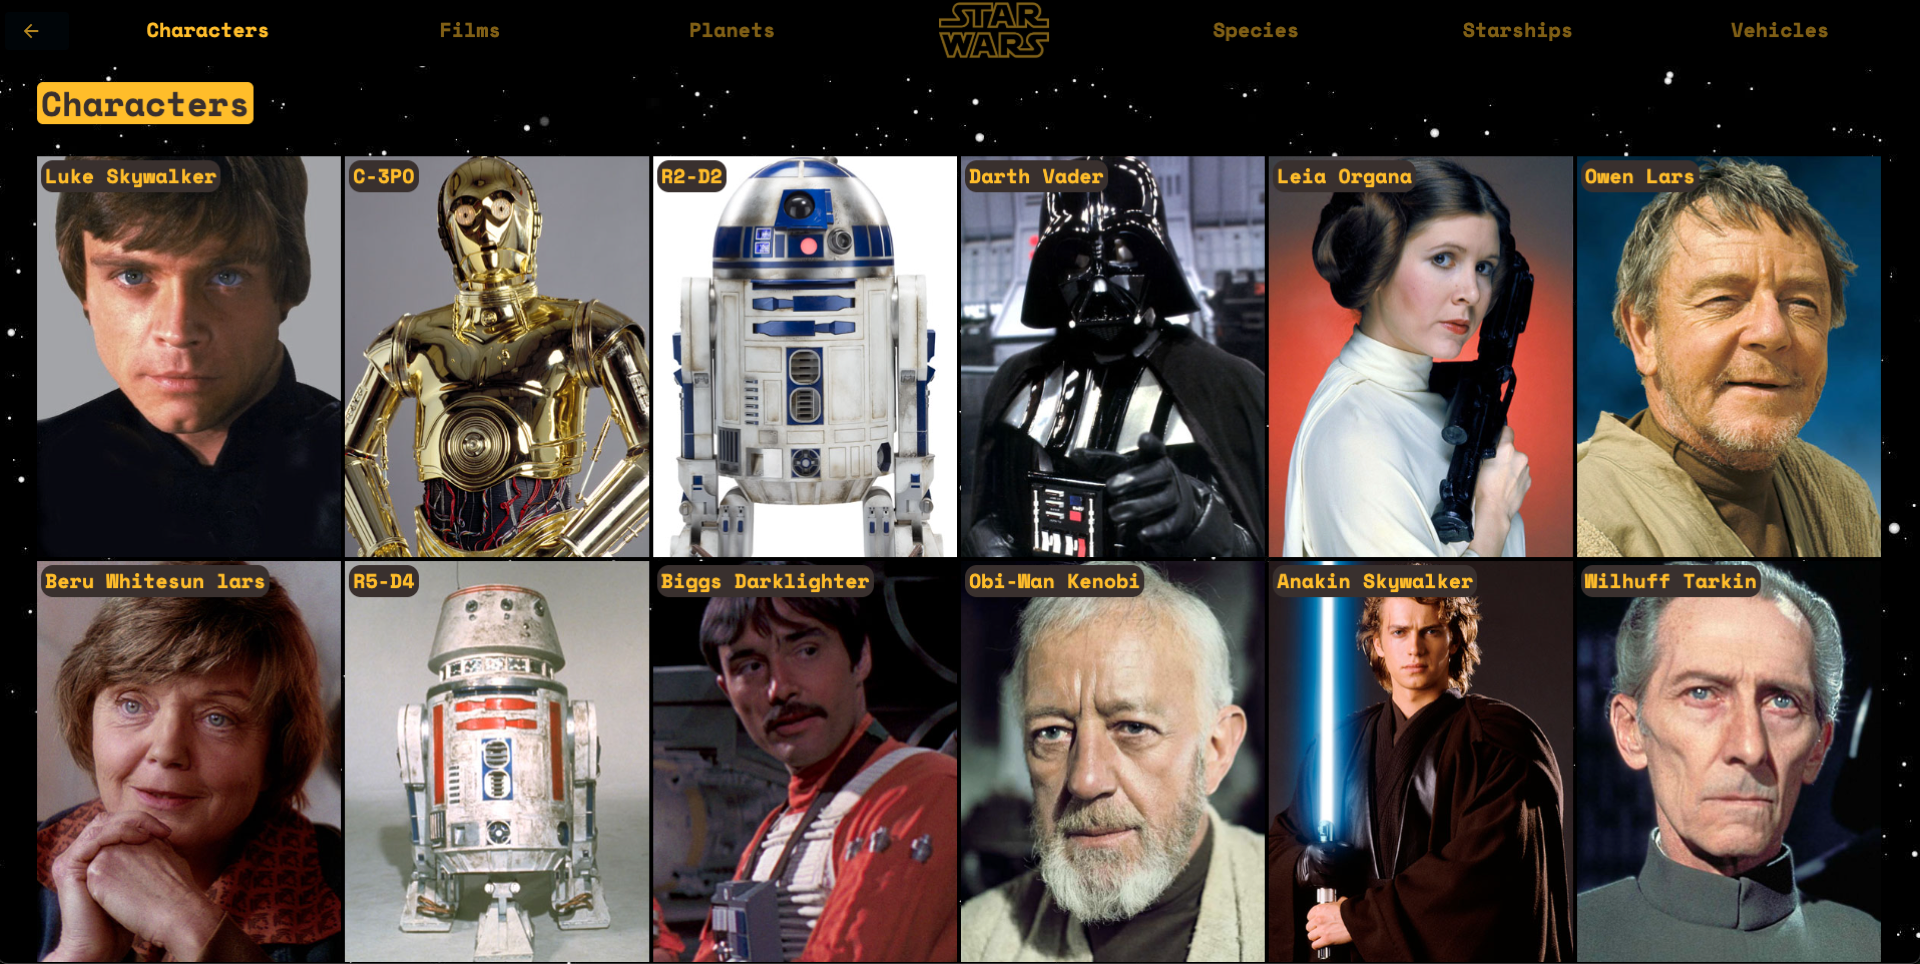
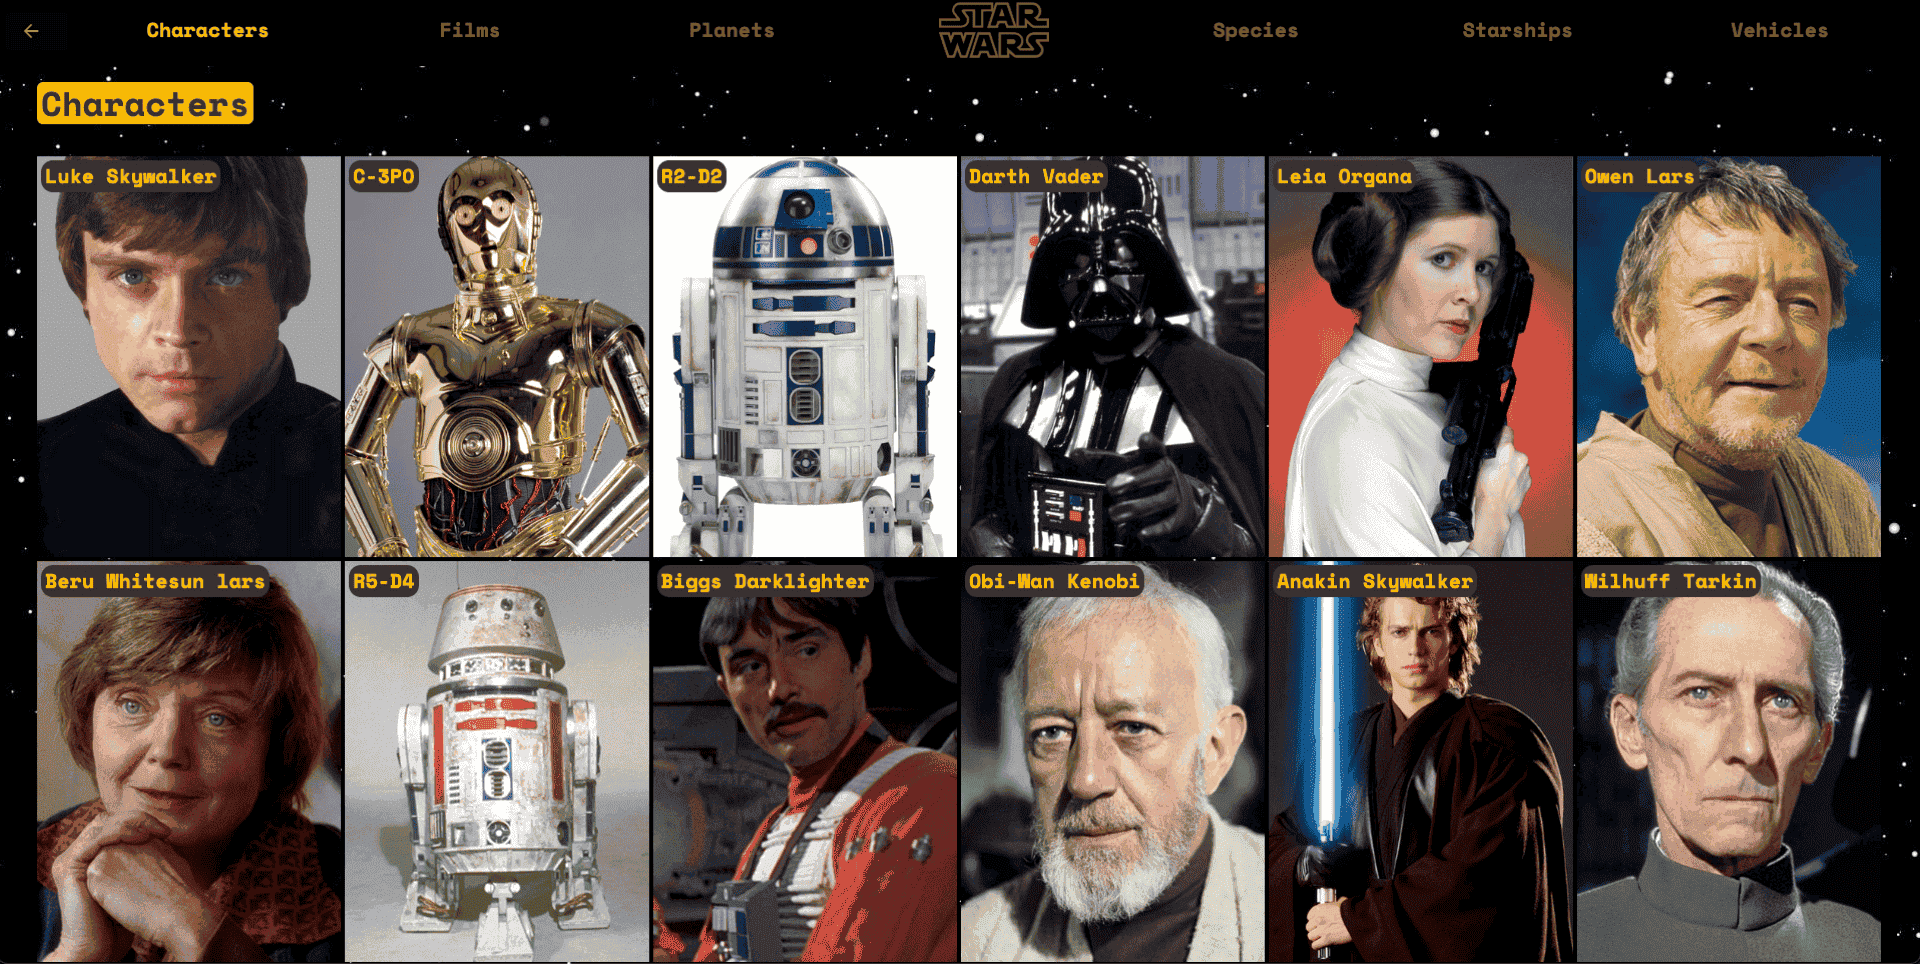
fix: Optimize images, fix fonts, modal X, video path, and E2E tests
Performance & Image Optimization:
- Aggressively optimized all project images from 29MB → 9.3MB (68% reduction)
- Most images now under 200KB (largest Star Wars images at 450-570KB)
- Added image optimization scripts for future use

UI/UX Fixes:
- Added JetBrains Mono web font for cross-platform consistency
- Made modal X button green (text-primary class) for better visibility

Bug Fixes:
- Fixed Brainstormer video path case sensitivity (Brainstormer → brainstormer)
- Fixed Matt-Hulme.com URL (relative → https://matt-hulme.com)

CI/CD:
- Fixed E2E tests by adding database seeding step in workflow
- Tests now initialize and seed database before running

Database changes (not in git, deploy separately):
- Updated video path: /videos/projects/brainstormer/brainstormer-demo.mp4
- Updated Matt-Hulme.com project URL to absolute URL

🤖 Generated with [Claude Code](https://claude.com/claude-code)

diff --git a/frontend/index.html b/frontend/index.html
@@ -3,6 +3,9 @@
   <head>
     <meta charset="UTF-8" />
     <link rel="icon" type="image/svg+xml" href="/favicon.svg" />
+    <link rel="preconnect" href="https://fonts.googleapis.com" />
+    <link rel="preconnect" href="https://fonts.gstatic.com" crossorigin />
+    <link href="https://fonts.googleapis.com/css2?family=JetBrains+Mono:wght@400;500;600;700&display=swap" rel="stylesheet" />
     <meta name="viewport" content="width=device-width, initial-scale=1.0" />
     <meta name="description" content="Matt Hulme - AI Engineer, Full Stack Developer, Data Engineer, and Marketer. Portfolio showcasing projects in AI/ML, web development, and data engineering." />
     <meta name="author" content="Matt Hulme" />

diff --git a/frontend/src/index.css b/frontend/src/index.css
@@ -21,7 +21,7 @@
   --color-gray-900: #171717;
 
   /* Font families */
-  --font-mono: 'SF Mono', 'Monaco', 'Inconsolata', 'Courier New', monospace;
+  --font-mono: 'JetBrains Mono', 'SF Mono', 'Monaco', 'Inconsolata', 'Courier New', monospace;
 
   /* shadcn theme variables */
   --radius-sm: calc(var(--radius) - 4px);
@@ -137,7 +137,7 @@
   body {
     background-color: #0f0f0f;
     color: var(--foreground);
-    font-family: 'SF Mono', 'Monaco', 'Inconsolata', 'Courier New', monospace;
+    font-family: 'JetBrains Mono', 'SF Mono', 'Monaco', 'Inconsolata', 'Courier New', monospace;
   }
 
   /* Headings */

diff --git a/frontend/src/components/ui/dialog.tsx b/frontend/src/components/ui/dialog.tsx
@@ -43,7 +43,7 @@ const DialogContent = React.forwardRef<
     >
       {children}
       <DialogPrimitive.Close className="ring-offset-background focus:ring-ring data-[state=open]:bg-accent data-[state=open]:text-muted-foreground absolute top-4 right-4 rounded-sm opacity-70 transition-opacity hover:opacity-100 focus:ring-2 focus:ring-offset-2 focus:outline-none disabled:pointer-events-none">
-        <X className="h-4 w-4" />
+        <X className="text-primary h-4 w-4" />
         <span className="sr-only">Close</span>
       </DialogPrimitive.Close>
     </DialogPrimitive.Content>
